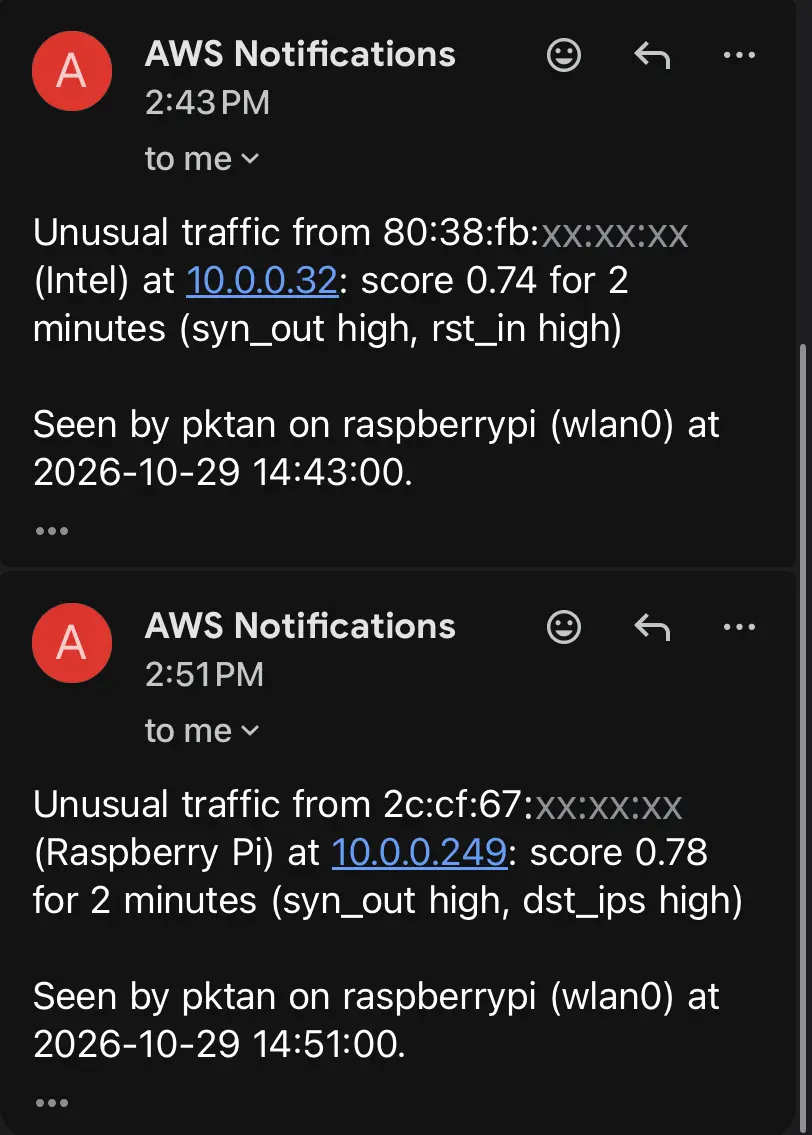
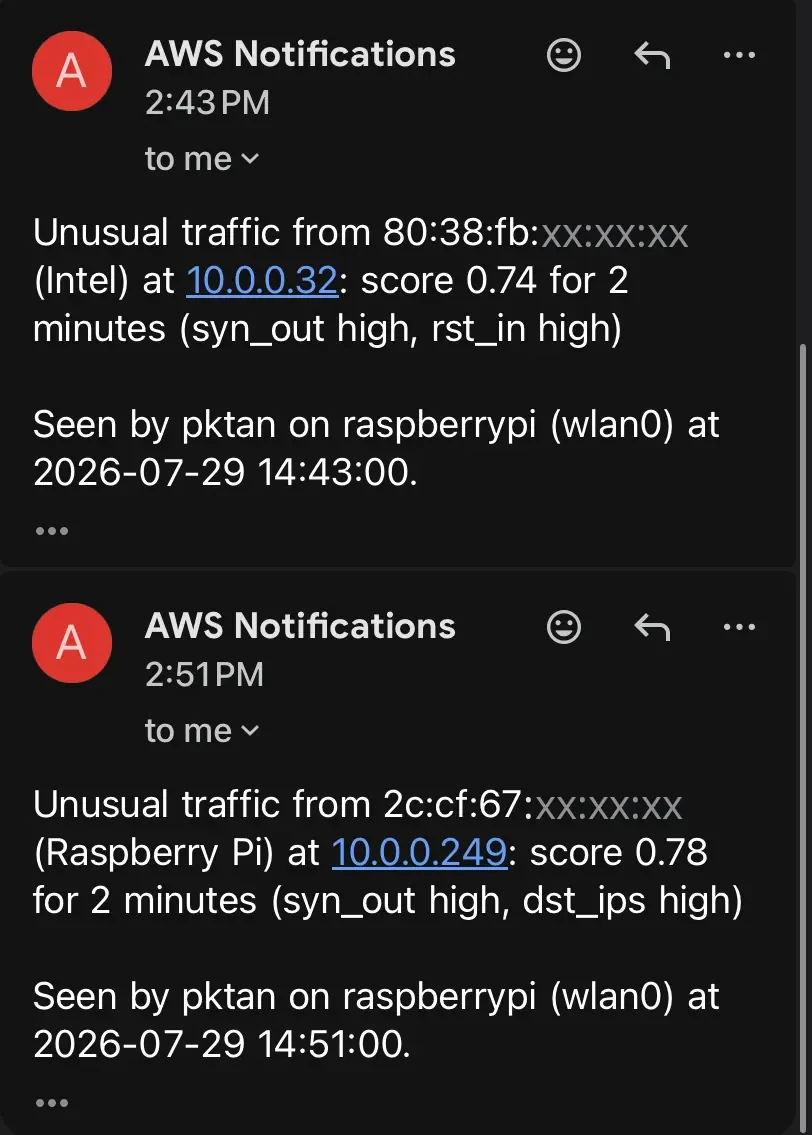
RPi Packet Analyzer: date alerts July 29, 2026

Changed region(s): [[0.1539, 0.8943, 0.4926, 0.9559], [0.1539, 0.4009, 0.5234, 0.4317]]

diff --git a/projects/rpi-packet-analyzer.html b/projects/rpi-packet-analyzer.html
@@ -218,7 +218,7 @@ live service: pktcap 9 MB + python 39 MB of memory</div>
       <p>I didn't want to give up "no dependencies" just to talk to AWS, so I wrote the request signing myself. AWS Signature Version 4 is a chain of HMAC-SHA256 steps over a carefully formatted copy of the request. Before touching real AWS, I tested it against the examples AWS publishes, and it matched them exactly. The first real call worked on the first try.</p>
       <div class="pp-code">10.0.0.32 tried 25 ports on 10.0.0.249 in 10s (port scan?)
 
-Seen by pktan on raspberrypi (wlan0) at 2026-10-29 13:55:51.</div>
+Seen by pktan on raspberrypi (wlan0) at 2026-07-29 13:55:51.</div>
       <p>That's a real alert email, from a test where I knocked on 30 ports of the Pi from my laptop. Even the test taught me something. The first try produced nothing, because <code>raspberrypi.local</code> pointed at the Pi's Ethernet port while pktan was listening on its Wi-Fi.</p>
       <p><span class="pp-label">The struggle</span> The next emails were wrong. They said a new device had joined, but one was a Hikvision device I'd already seen in a capture an hour and a half earlier, and another was the Pi's own Ethernet port. pktan forgot the whole network every time it restarted, and I'd restarted it three times while testing. After a restart it only waited 90 seconds before calling a device new. Quiet devices like cameras and smart plugs can go minutes without saying anything, so each one got announced the moment it spoke. My tests had caught a similar problem earlier that day: a port scan that touched ports 21 and 23 also raised "unencrypted Telnet/FTP" alerts.</p>
       <p><span class="pp-label">The fix</span> pktan now keeps the list of every device it has ever seen in a small file in its state folder, so a reboot doesn't re-announce anything. The Pi's own network cards count as known from the start. On a first run with no saved list, it learns for 10 minutes before it alerts. The Telnet and FTP alert now waits for the server to accept the connection, so a scan's knocking doesn't count.</p>
